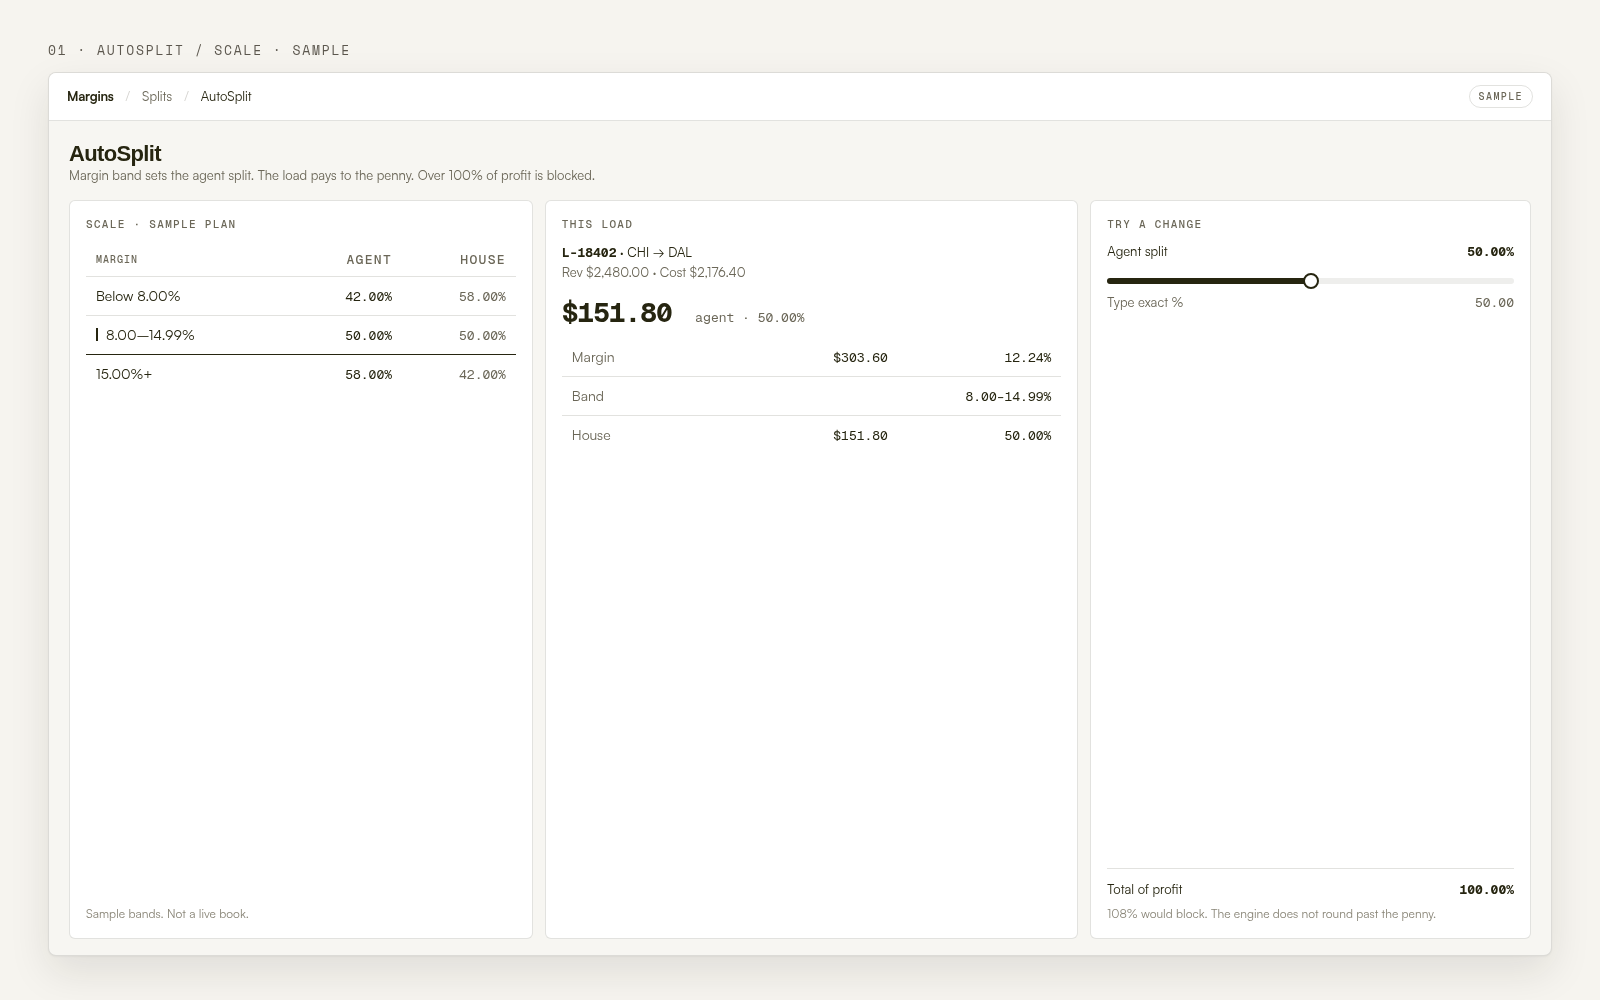
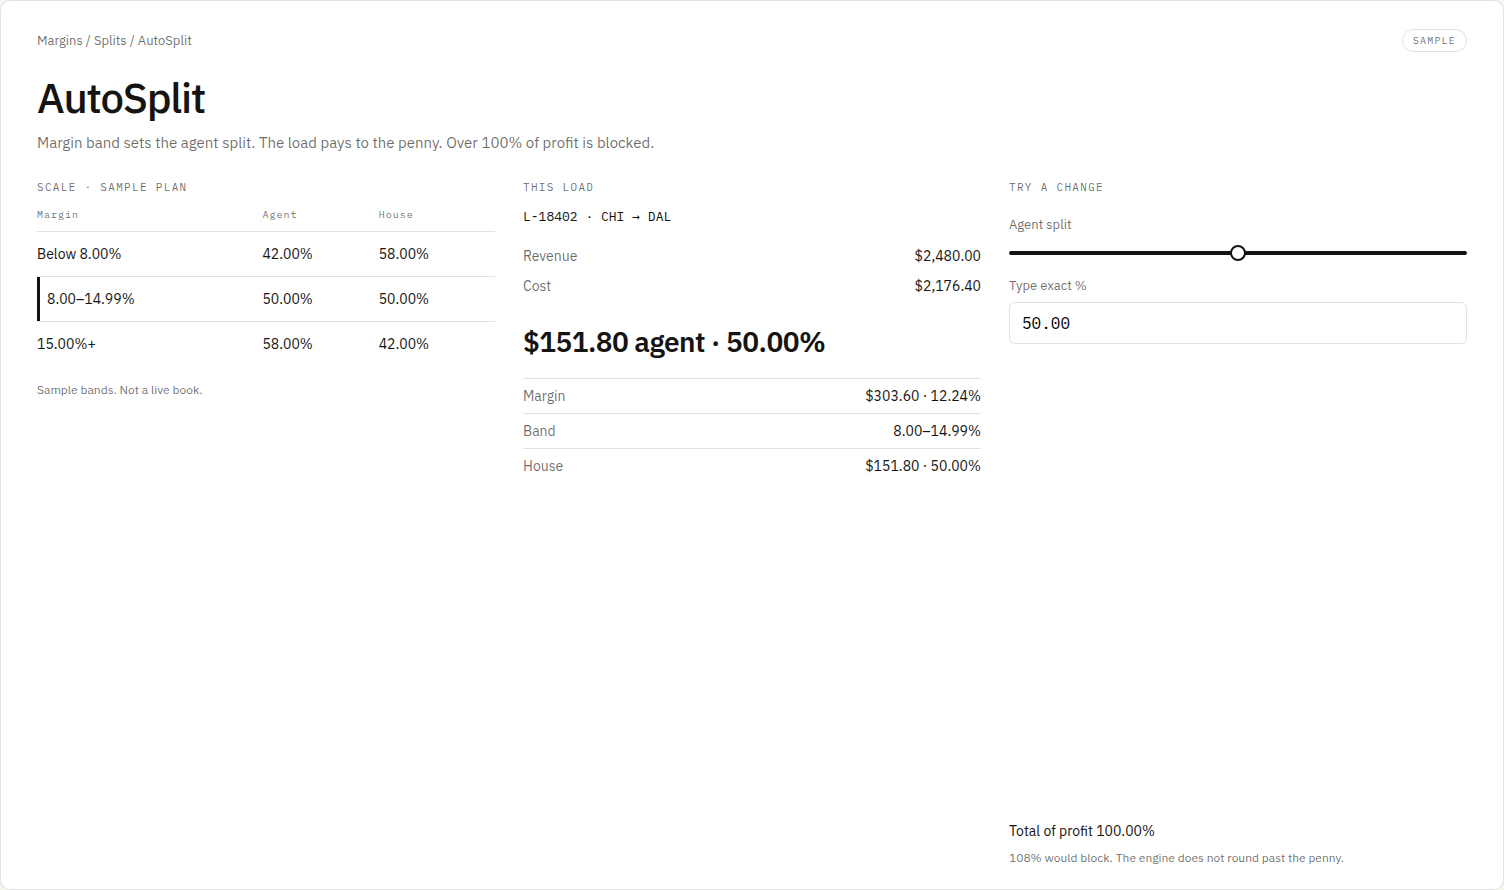
Make AutoSplit the Margins fold, not a framed demo
Left type, instrument owns the rest of the first viewport. Penny sits as a quiet sans kicker above the locked H1. Talk is the only fill; Book a call is a text line. Crop the leftover plate caption off the SAMPLE still.

diff --git a/app/landing.css b/app/landing.css
@@ -118,27 +118,32 @@ body:has(.theme-snow) {
   color: var(--lp-snow);
 }
 
-.theme-snow .lp-hero {
-  min-height: 100svh;
-  align-items: stretch;
-}
-
-.theme-snow .lp-fold-inner {
-  display: grid;
-  grid-template-columns: minmax(15rem, 22rem) minmax(0, 1fr);
-  gap: 36px;
-  align-items: center;
-  width: 100%;
+.theme-snow .lp-nav-inner {
   max-width: none;
   margin: 0;
-  padding: calc(var(--lp-nav-h) + 12px) var(--lp-space) 20px;
+}
+
+.theme-snow .lp-hero.lp-fold {
+  display: grid;
+  grid-template-columns: minmax(16rem, 20rem) minmax(0, 1fr);
+  column-gap: 28px;
+  align-items: center;
+  width: 100%;
   min-height: 100svh;
+  height: 100svh;
+  max-height: 100svh;
+  overflow: hidden;
+  padding: 0 0 0 var(--lp-space);
+  box-sizing: border-box;
 }
 
 .theme-snow .lp-hero-copy {
-  padding: 0;
-  max-width: 22rem;
+  width: auto;
+  margin: 0;
+  padding: var(--lp-nav-h) 0 0;
+  max-width: 20rem;
   text-align: left;
+  justify-self: start;
 }
 
 .theme-snow .lp-hero-copy > * {
@@ -164,11 +169,11 @@ body:has(.theme-snow) {
 
 .theme-snow .lp-hero-kicker {
   margin: 0 0 14px;
-  font-family: var(--lp-mono);
-  font-size: 11px;
+  font-family: var(--lp-sans);
+  font-size: 12px;
   font-style: normal;
   font-weight: 400;
-  letter-spacing: 0.04em;
+  letter-spacing: 0.01em;
   line-height: 1.4;
   color: var(--lp-muted);
   text-transform: none;
@@ -183,6 +188,7 @@ body:has(.theme-snow) {
   background: none;
   color: var(--lp-night);
   font-size: 15px;
+  line-height: 1.2;
   text-decoration: none;
   border-bottom: 1px solid rgba(22, 20, 18, 0.28);
 }
@@ -225,7 +231,7 @@ body:has(.theme-snow) {
   -webkit-backdrop-filter: none;
 }
 
-.theme-snow .lp-fold-frame {
+.theme-snow .lp-fold-instrument {
   margin: 0;
   min-width: 0;
   min-height: 0;
@@ -233,39 +239,25 @@ body:has(.theme-snow) {
   align-self: stretch;
   display: flex;
   align-items: center;
+  justify-content: flex-start;
+  overflow: hidden;
+  background: none;
+  box-shadow: none;
+  outline: none;
+  border-radius: 0;
 }
 
-.theme-snow .lp-fold-frame img {
+.theme-snow .lp-fold-instrument img {
   display: block;
   width: 100%;
   height: auto;
-  max-height: calc(100svh - var(--lp-nav-h) - 32px);
+  max-height: 92%;
   object-fit: contain;
   object-position: left center;
   border-radius: 0;
   background: none;
   box-shadow: none;
   outline: none;
-}
-
-@media (min-width: 901px) {
-  .theme-snow .lp-hero.lp-fold {
-    height: 100svh;
-    max-height: 100svh;
-    overflow: hidden;
-  }
-
-  .theme-snow .lp-fold-inner {
-    height: 100svh;
-    max-height: 100svh;
-    box-sizing: border-box;
-  }
-
-  .theme-snow .lp-fold-frame img {
-    height: 100%;
-    max-height: none;
-    object-fit: contain;
-  }
 }
 
 .theme-snow .lp-sheet {
@@ -1055,15 +1047,28 @@ ol.lp-team {
   .lp-hero-copy {
     padding: calc(var(--lp-nav-h) + 56px) var(--lp-space) 96px;
   }
-  .theme-snow .lp-fold-inner {
-    grid-template-columns: 1fr;
-    gap: 20px;
-    padding: calc(var(--lp-nav-h) + 16px) var(--lp-space) 16px;
-    min-height: 0;
+  .theme-snow .lp-hero.lp-fold {
+    display: flex;
+    flex-direction: column;
     height: auto;
+    max-height: none;
+    min-height: 0;
+    overflow: visible;
+    padding: calc(var(--lp-nav-h) + 16px) 0 0 var(--lp-space);
+    gap: 20px;
   }
   .theme-snow .lp-hero-copy {
     padding: 0;
+    max-width: none;
+  }
+  .theme-snow .lp-fold-instrument {
+    height: auto;
+    margin-right: 0;
+  }
+  .theme-snow .lp-fold-instrument img {
+    height: auto;
+    width: 100%;
+    max-height: none;
   }
   .theme-snow .lp-sheet {
     margin: 0 auto;

diff --git a/components/landing/ProductLanding.tsx b/components/landing/ProductLanding.tsx
@@ -92,40 +92,38 @@ export function ProductLanding(product: ProductContent) {
 
       <main id="main-content">
         <header className={firstSolve ? "lp-hero lp-fold" : "lp-hero"} id="top" data-section="hero">
-          <div className={firstSolve ? "lp-fold-inner" : undefined}>
-            <div className="lp-hero-copy">
-              {product.kicker ? <p className="lp-kicker">{product.kicker}</p> : null}
-              {product.italic && product.italicAsKicker ? (
-                <p className="lp-hero-kicker">{product.italic}</p>
-              ) : null}
-              <h1>{product.title}</h1>
-              {product.italic && !product.italicAsKicker ? (
-                <p className="lp-hero-display-em">
-                  <em>{product.italic}</em>
-                </p>
-              ) : null}
-              <p className="lp-hero-lede">{product.lede}</p>
-              <div className="lp-hero-actions">
-                <button type="button" className="lp-btn lp-btn-fill" onClick={openChat}>
-                  {talkLabel}
-                </button>
-                <a
-                  className="lp-hero-line"
-                  href={product.lineHref}
-                  target={product.lineHref.startsWith("http") ? "_blank" : undefined}
-                  rel={product.lineHref.startsWith("http") ? "noopener noreferrer" : undefined}
-                  onClick={() => onCtaClick?.(product.lineLabel)}
-                >
-                  {product.lineLabel}
-                </a>
-              </div>
-            </div>
-            {firstSolve ? (
-              <figure className="lp-fold-frame" aria-label={product.frameAlt}>
-                <img src={product.frameSrc} alt={product.frameAlt} />
-              </figure>
+          <div className="lp-hero-copy">
+            {product.kicker ? <p className="lp-kicker">{product.kicker}</p> : null}
+            {product.italic && product.italicAsKicker ? (
+              <p className="lp-hero-kicker">{product.italic}</p>
             ) : null}
+            <h1>{product.title}</h1>
+            {product.italic && !product.italicAsKicker ? (
+              <p className="lp-hero-display-em">
+                <em>{product.italic}</em>
+              </p>
+            ) : null}
+            <p className="lp-hero-lede">{product.lede}</p>
+            <div className="lp-hero-actions">
+              <button type="button" className="lp-btn lp-btn-fill" onClick={openChat}>
+                {talkLabel}
+              </button>
+              <a
+                className="lp-hero-line"
+                href={product.lineHref}
+                target={product.lineHref.startsWith("http") ? "_blank" : undefined}
+                rel={product.lineHref.startsWith("http") ? "noopener noreferrer" : undefined}
+                onClick={() => onCtaClick?.(product.lineLabel)}
+              >
+                {product.lineLabel}
+              </a>
+            </div>
           </div>
+          {firstSolve ? (
+            <figure className="lp-fold-instrument" aria-label={product.frameAlt}>
+              <img src={product.frameSrc} alt={product.frameAlt} />
+            </figure>
+          ) : null}
         </header>
 
         {!hasSolves ? (
